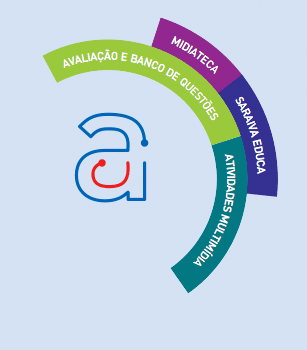
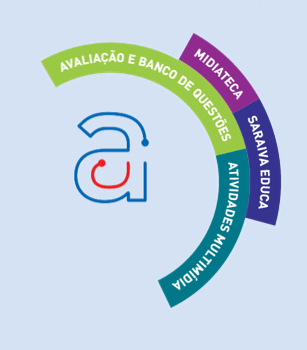
menu das internas ie8

diff --git a/acompanha/index.html b/acompanha/index.html
@@ -62,10 +62,10 @@
         <!--<![endif]-->
         <!--[if lt IE 9]>
         <map id="imgmap" name="imgmap">
-          <area shape="poly" alt="avaliacao" title="" coords="43,56,77,43,109,41,148,45,178,60,206,79,226,105,226,105,241,135,212,145,197,116,175,91,139,73,95,69,58,81" href="../avaliacao" target="" />
-          <area shape="poly" alt="midiateca" title="" coords="162,18,196,35,225,55,240,73,217,91,198,72,177,56,152,45" href="../midiateca" target="" />
-          <area shape="poly" alt="licoes" title="" coords="212,147,239,136,248,159,244,201,230,246,212,270,189,291,172,267,191,247,210,218,218,182,214,155" href="../licoes" target="" />
-          <area shape="poly" alt="saraiva" title="" coords="255,96,269,133,277,174,278,196,247,192,247,158,239,128,228,110,216,91,240,73" href="../saraiva" target="" />
+          <area shape="poly" href="../avaliacao"  coords="41,60,55,87,77,77,106,72,130,74,164,87,195,111,212,143,216,155,248,148,232,113,209,83,171,55,125,43,78,45" />
+          <area shape="poly" href="../midiateca"  coords="179,60,194,32,220,51,239,68,260,100,232,112,208,79,189,64" />
+          <area shape="poly" href="../licoes"     coords="215,156,246,149,251,182,245,219,230,254,206,283,171,308,159,281,187,260,208,231,219,193,219,174" />
+          <area shape="poly" href="../saraiva"    coords="233,113,259,99,274,129,281,162,280,210,276,227,246,217,250,171,244,141" />
         </map>
           <img id ="imagemap_bg" src="../img/iefallback_interna.png" usemap="#imgmap">
           <![endif]-->

diff --git a/adquira/index.html b/adquira/index.html
@@ -62,10 +62,10 @@
         <!--<![endif]-->
         <!--[if lt IE 9]>
         <map id="imgmap" name="imgmap">
-          <area shape="poly" alt="avaliacao" title="" coords="43,56,77,43,109,41,148,45,178,60,206,79,226,105,226,105,241,135,212,145,197,116,175,91,139,73,95,69,58,81" href="../avaliacao" target="" />
-          <area shape="poly" alt="midiateca" title="" coords="162,18,196,35,225,55,240,73,217,91,198,72,177,56,152,45" href="../midiateca" target="" />
-          <area shape="poly" alt="licoes" title="" coords="212,147,239,136,248,159,244,201,230,246,212,270,189,291,172,267,191,247,210,218,218,182,214,155" href="../licoes" target="" />
-          <area shape="poly" alt="saraiva" title="" coords="255,96,269,133,277,174,278,196,247,192,247,158,239,128,228,110,216,91,240,73" href="../saraiva" target="" />
+          <area shape="poly" href="../avaliacao"  coords="41,60,55,87,77,77,106,72,130,74,164,87,195,111,212,143,216,155,248,148,232,113,209,83,171,55,125,43,78,45" />
+          <area shape="poly" href="../midiateca"  coords="179,60,194,32,220,51,239,68,260,100,232,112,208,79,189,64" />
+          <area shape="poly" href="../licoes"     coords="215,156,246,149,251,182,245,219,230,254,206,283,171,308,159,281,187,260,208,231,219,193,219,174" />
+          <area shape="poly" href="../saraiva"    coords="233,113,259,99,274,129,281,162,280,210,276,227,246,217,250,171,244,141" />
         </map>
           <img id ="imagemap_bg" src="../img/iefallback_interna.png" usemap="#imgmap">
           <![endif]-->

diff --git a/avaliacao/index.html b/avaliacao/index.html
@@ -62,10 +62,10 @@
         <!--<![endif]-->
         <!--[if lt IE 9]>
         <map id="imgmap" name="imgmap">
-          <area shape="poly" alt="avaliacao" title="" coords="43,56,77,43,109,41,148,45,178,60,206,79,226,105,226,105,241,135,212,145,197,116,175,91,139,73,95,69,58,81" href="../avaliacao" target="" />
-          <area shape="poly" alt="midiateca" title="" coords="162,18,196,35,225,55,240,73,217,91,198,72,177,56,152,45" href="../midiateca" target="" />
-          <area shape="poly" alt="licoes" title="" coords="212,147,239,136,248,159,244,201,230,246,212,270,189,291,172,267,191,247,210,218,218,182,214,155" href="../licoes" target="" />
-          <area shape="poly" alt="saraiva" title="" coords="255,96,269,133,277,174,278,196,247,192,247,158,239,128,228,110,216,91,240,73" href="../saraiva" target="" />
+          <area shape="poly" href="../avaliacao"  coords="41,60,55,87,77,77,106,72,130,74,164,87,195,111,212,143,216,155,248,148,232,113,209,83,171,55,125,43,78,45" />
+          <area shape="poly" href="../midiateca"  coords="179,60,194,32,220,51,239,68,260,100,232,112,208,79,189,64" />
+          <area shape="poly" href="../licoes"     coords="215,156,246,149,251,182,245,219,230,254,206,283,171,308,159,281,187,260,208,231,219,193,219,174" />
+          <area shape="poly" href="../saraiva"    coords="233,113,259,99,274,129,281,162,280,210,276,227,246,217,250,171,244,141" />
         </map>
           <img id ="imagemap_bg" src="../img/iefallback_interna.png" usemap="#imgmap">
           <![endif]-->

diff --git a/contato/index.html b/contato/index.html
@@ -62,10 +62,10 @@
         <!--<![endif]-->
         <!--[if lt IE 9]>
         <map id="imgmap" name="imgmap">
-          <area shape="poly" alt="avaliacao" title="" coords="43,56,77,43,109,41,148,45,178,60,206,79,226,105,226,105,241,135,212,145,197,116,175,91,139,73,95,69,58,81" href="../avaliacao" target="" />
-          <area shape="poly" alt="midiateca" title="" coords="162,18,196,35,225,55,240,73,217,91,198,72,177,56,152,45" href="../midiateca" target="" />
-          <area shape="poly" alt="licoes" title="" coords="212,147,239,136,248,159,244,201,230,246,212,270,189,291,172,267,191,247,210,218,218,182,214,155" href="../licoes" target="" />
-          <area shape="poly" alt="saraiva" title="" coords="255,96,269,133,277,174,278,196,247,192,247,158,239,128,228,110,216,91,240,73" href="../saraiva" target="" />
+          <area shape="poly" href="../avaliacao"  coords="41,60,55,87,77,77,106,72,130,74,164,87,195,111,212,143,216,155,248,148,232,113,209,83,171,55,125,43,78,45" />
+          <area shape="poly" href="../midiateca"  coords="179,60,194,32,220,51,239,68,260,100,232,112,208,79,189,64" />
+          <area shape="poly" href="../licoes"     coords="215,156,246,149,251,182,245,219,230,254,206,283,171,308,159,281,187,260,208,231,219,193,219,174" />
+          <area shape="poly" href="../saraiva"    coords="233,113,259,99,274,129,281,162,280,210,276,227,246,217,250,171,244,141" />
         </map>
           <img id ="imagemap_bg" src="../img/iefallback_interna.png" usemap="#imgmap">
           <![endif]-->

diff --git a/licoes/index.html b/licoes/index.html
@@ -61,10 +61,10 @@
         <!--<![endif]-->
         <!--[if lt IE 9]>
         <map id="imgmap" name="imgmap">
-          <area shape="poly" alt="avaliacao" title="" coords="43,56,77,43,109,41,148,45,178,60,206,79,226,105,226,105,241,135,212,145,197,116,175,91,139,73,95,69,58,81" href="../avaliacao" target="" />
-          <area shape="poly" alt="midiateca" title="" coords="162,18,196,35,225,55,240,73,217,91,198,72,177,56,152,45" href="../midiateca" target="" />
-          <area shape="poly" alt="licoes" title="" coords="212,147,239,136,248,159,244,201,230,246,212,270,189,291,172,267,191,247,210,218,218,182,214,155" href="../licoes" target="" />
-          <area shape="poly" alt="saraiva" title="" coords="255,96,269,133,277,174,278,196,247,192,247,158,239,128,228,110,216,91,240,73" href="../saraiva" target="" />
+          <area shape="poly" href="../avaliacao"  coords="41,60,55,87,77,77,106,72,130,74,164,87,195,111,212,143,216,155,248,148,232,113,209,83,171,55,125,43,78,45" />
+          <area shape="poly" href="../midiateca"  coords="179,60,194,32,220,51,239,68,260,100,232,112,208,79,189,64" />
+          <area shape="poly" href="../licoes"     coords="215,156,246,149,251,182,245,219,230,254,206,283,171,308,159,281,187,260,208,231,219,193,219,174" />
+          <area shape="poly" href="../saraiva"    coords="233,113,259,99,274,129,281,162,280,210,276,227,246,217,250,171,244,141" />
         </map>
           <img id ="imagemap_bg" src="../img/iefallback_interna.png" usemap="#imgmap">
           <![endif]-->

diff --git a/midiateca/index.html b/midiateca/index.html
@@ -62,10 +62,10 @@
         <!--<![endif]-->
         <!--[if lt IE 9]>
         <map id="imgmap" name="imgmap">
-          <area shape="poly" alt="avaliacao" title="" coords="43,56,77,43,109,41,148,45,178,60,206,79,226,105,226,105,241,135,212,145,197,116,175,91,139,73,95,69,58,81" href="../avaliacao" target="" />
-          <area shape="poly" alt="midiateca" title="" coords="162,18,196,35,225,55,240,73,217,91,198,72,177,56,152,45" href="../midiateca" target="" />
-          <area shape="poly" alt="licoes" title="" coords="212,147,239,136,248,159,244,201,230,246,212,270,189,291,172,267,191,247,210,218,218,182,214,155" href="../licoes" target="" />
-          <area shape="poly" alt="saraiva" title="" coords="255,96,269,133,277,174,278,196,247,192,247,158,239,128,228,110,216,91,240,73" href="../saraiva" target="" />
+          <area shape="poly" href="../avaliacao"  coords="41,60,55,87,77,77,106,72,130,74,164,87,195,111,212,143,216,155,248,148,232,113,209,83,171,55,125,43,78,45" />
+          <area shape="poly" href="../midiateca"  coords="179,60,194,32,220,51,239,68,260,100,232,112,208,79,189,64" />
+          <area shape="poly" href="../licoes"     coords="215,156,246,149,251,182,245,219,230,254,206,283,171,308,159,281,187,260,208,231,219,193,219,174" />
+          <area shape="poly" href="../saraiva"    coords="233,113,259,99,274,129,281,162,280,210,276,227,246,217,250,171,244,141" />
         </map>
           <img id ="imagemap_bg" src="../img/iefallback_interna.png" usemap="#imgmap">
           <![endif]-->

diff --git a/saraiva/index.html b/saraiva/index.html
@@ -62,10 +62,10 @@
         <!--<![endif]-->
         <!--[if lt IE 9]>
         <map id="imgmap" name="imgmap">
-          <area shape="poly" alt="avaliacao" title="" coords="43,56,77,43,109,41,148,45,178,60,206,79,226,105,226,105,241,135,212,145,197,116,175,91,139,73,95,69,58,81" href="../avaliacao" target="" />
-          <area shape="poly" alt="midiateca" title="" coords="162,18,196,35,225,55,240,73,217,91,198,72,177,56,152,45" href="../midiateca" target="" />
-          <area shape="poly" alt="licoes" title="" coords="212,147,239,136,248,159,244,201,230,246,212,270,189,291,172,267,191,247,210,218,218,182,214,155" href="../licoes" target="" />
-          <area shape="poly" alt="saraiva" title="" coords="255,96,269,133,277,174,278,196,247,192,247,158,239,128,228,110,216,91,240,73" href="../saraiva" target="" />
+          <area shape="poly" href="../avaliacao"  coords="41,60,55,87,77,77,106,72,130,74,164,87,195,111,212,143,216,155,248,148,232,113,209,83,171,55,125,43,78,45" />
+          <area shape="poly" href="../midiateca"  coords="179,60,194,32,220,51,239,68,260,100,232,112,208,79,189,64" />
+          <area shape="poly" href="../licoes"     coords="215,156,246,149,251,182,245,219,230,254,206,283,171,308,159,281,187,260,208,231,219,193,219,174" />
+          <area shape="poly" href="../saraiva"    coords="233,113,259,99,274,129,281,162,280,210,276,227,246,217,250,171,244,141" />
         </map>
           <img id ="imagemap_bg" src="../img/iefallback_interna.png" usemap="#imgmap">
           <![endif]-->
